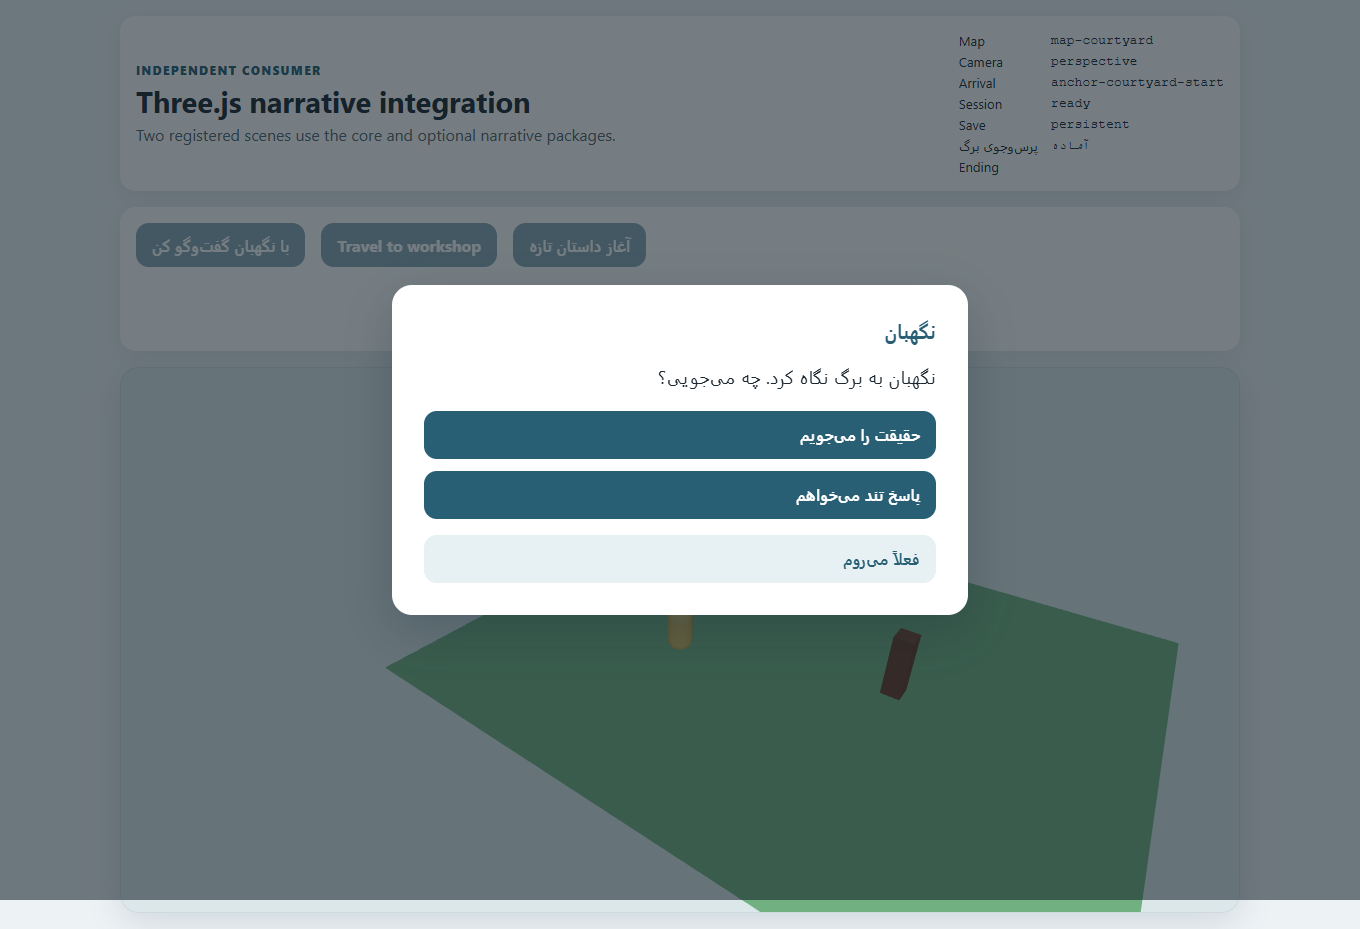
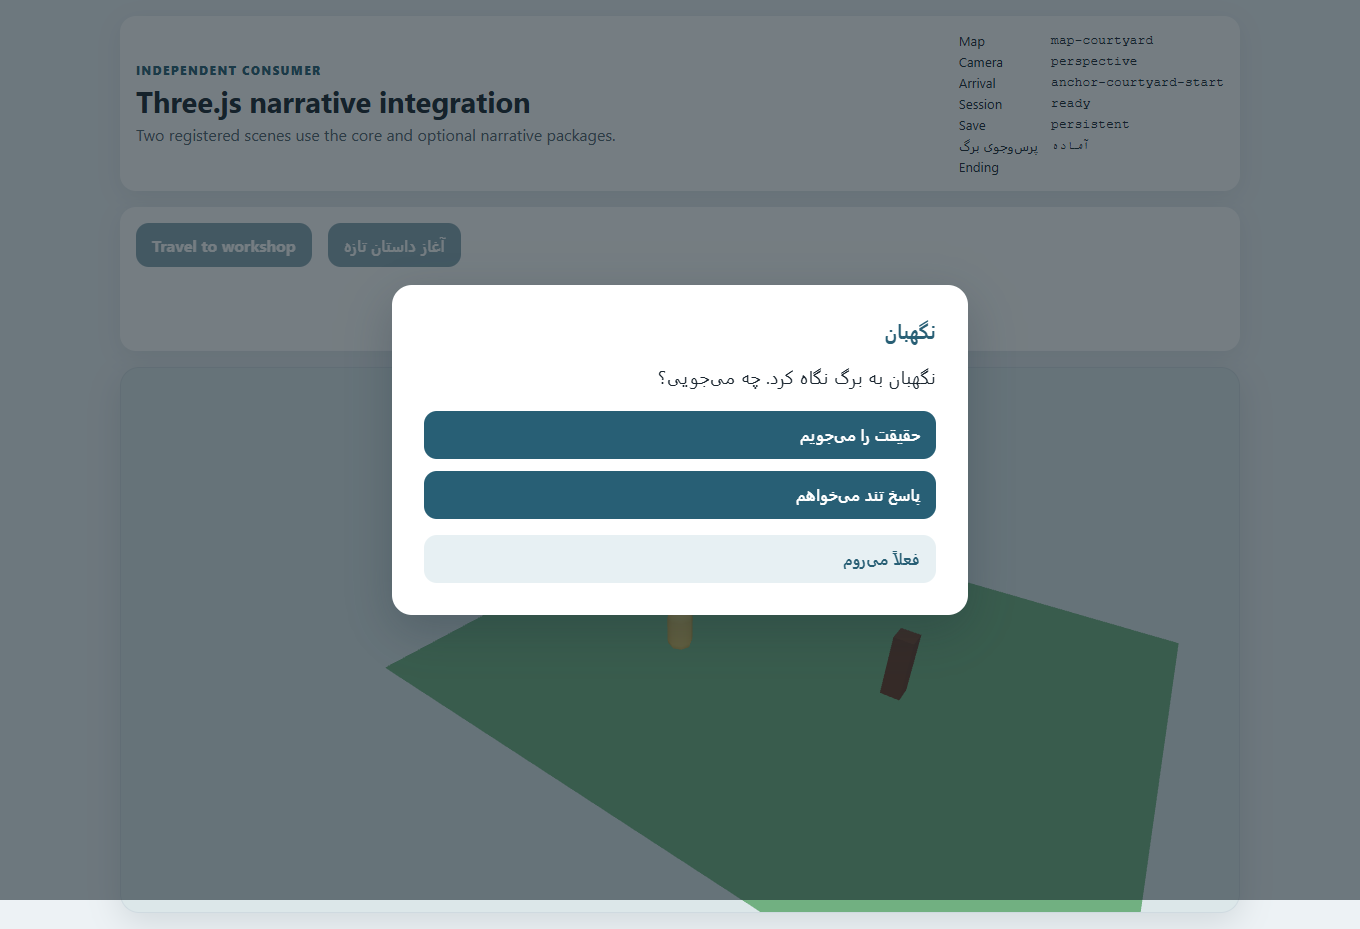
ci: repair Phase 5 consumer checks

Changed region(s): [[0.1235, 0.2185, 0.4941, 0.3122]]

diff --git a/README.md b/README.md
@@ -20,7 +20,7 @@ microphone, geolocation or device identifiers. Progress lives only in the browse
 
 ```mermaid
 flowchart LR
-  P1["1. Reusable core"] --> P2["2. 3D scene consumer"] --> P3["3. Narrative and quests"] --> P4["4. Gameplay modules"] --> P5["5. Model, animation, and cinematics"] --> P6["6. Asset and game creation tools"] --> P7["7. Five playable games"] --> P8["8. Individual releases"] --> P9["9. Player evaluation"]
+  P1["1. Reusable core"] --> P2["2. World/renderer"] --> P3["3. Narrative/quests"] --> P4["4. Gameplay modules"] --> P5["5. Animation/cinematics"] --> P6["6. Developer tools"] --> P7["7. Shahnameh proof of concept"]
   classDef complete fill:#dcfce7,stroke:#15803d,color:#14532d
   classDef next fill:#fef3c7,stroke:#b45309,color:#78350f
   classDef planned fill:#e5e7eb,stroke:#6b7280,color:#1f2937
